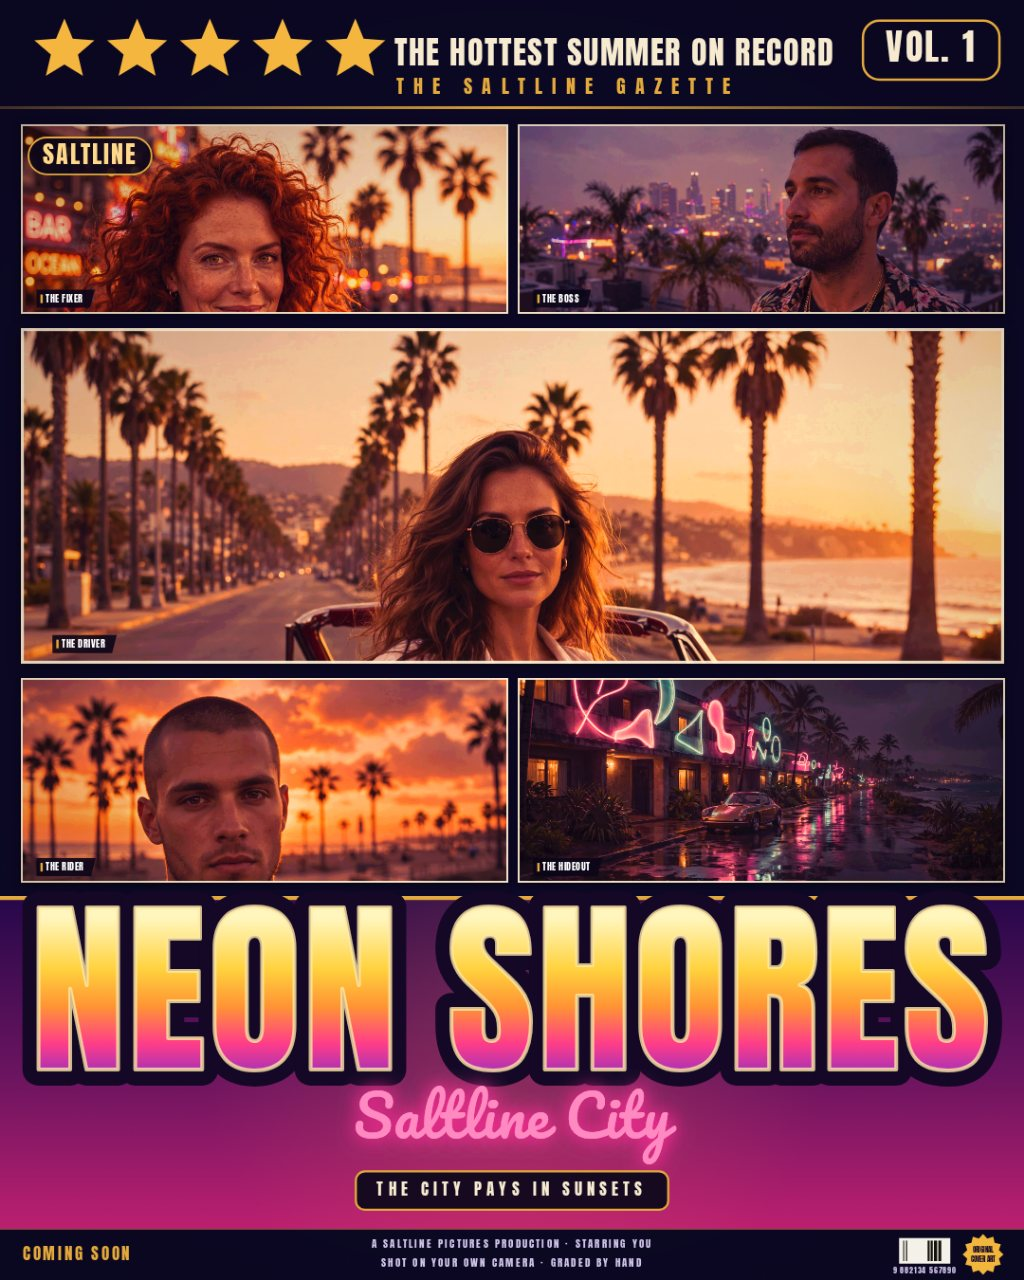
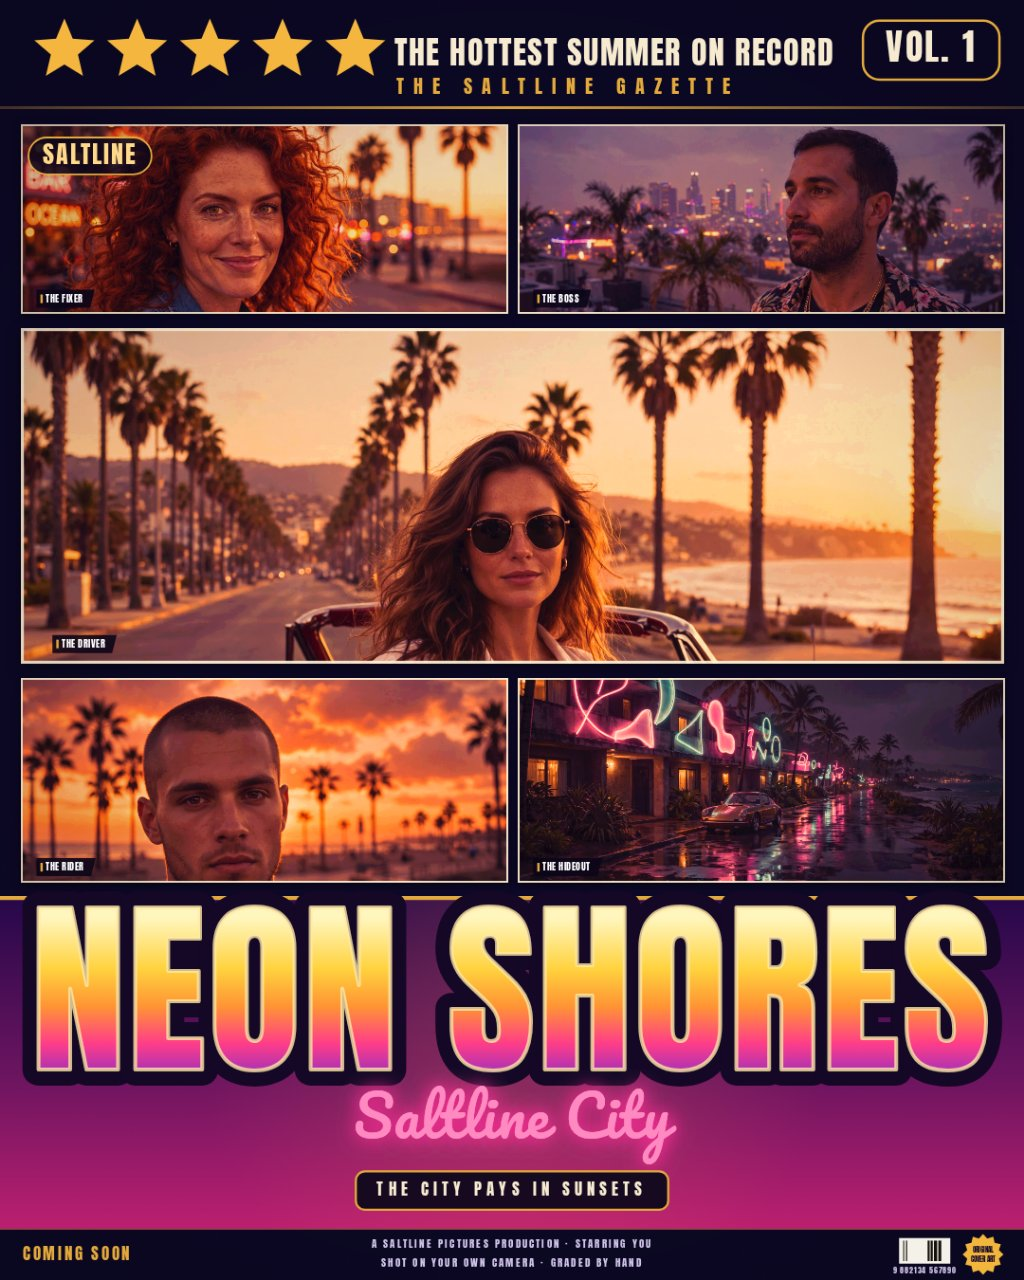
Round 3: poster fixer framing

Changed region(s): [[0.0, 0.0938, 0.5, 0.25]]

diff --git a/app/src/shots.js b/app/src/shots.js
@@ -42,6 +42,10 @@ export async function runShotScene(params, els) {
   if (params.get('subtitle')) state.subtitle = params.get('subtitle');
   ensurePanels(state);
   applyAssignment(state);
+  // Poster scene direction: in the top-left panel the Fixer's face sits
+  // low in her photo, so her crop window is nudged down the photo until
+  // the whole face, chin included, rests inside the panel with margin.
+  if (state.layout === 'poster' && state.panels[0]) state.panels[0].dy = 0.37;
   await fontsReady();
 
   if (params.get('shot') === 'cover') {
